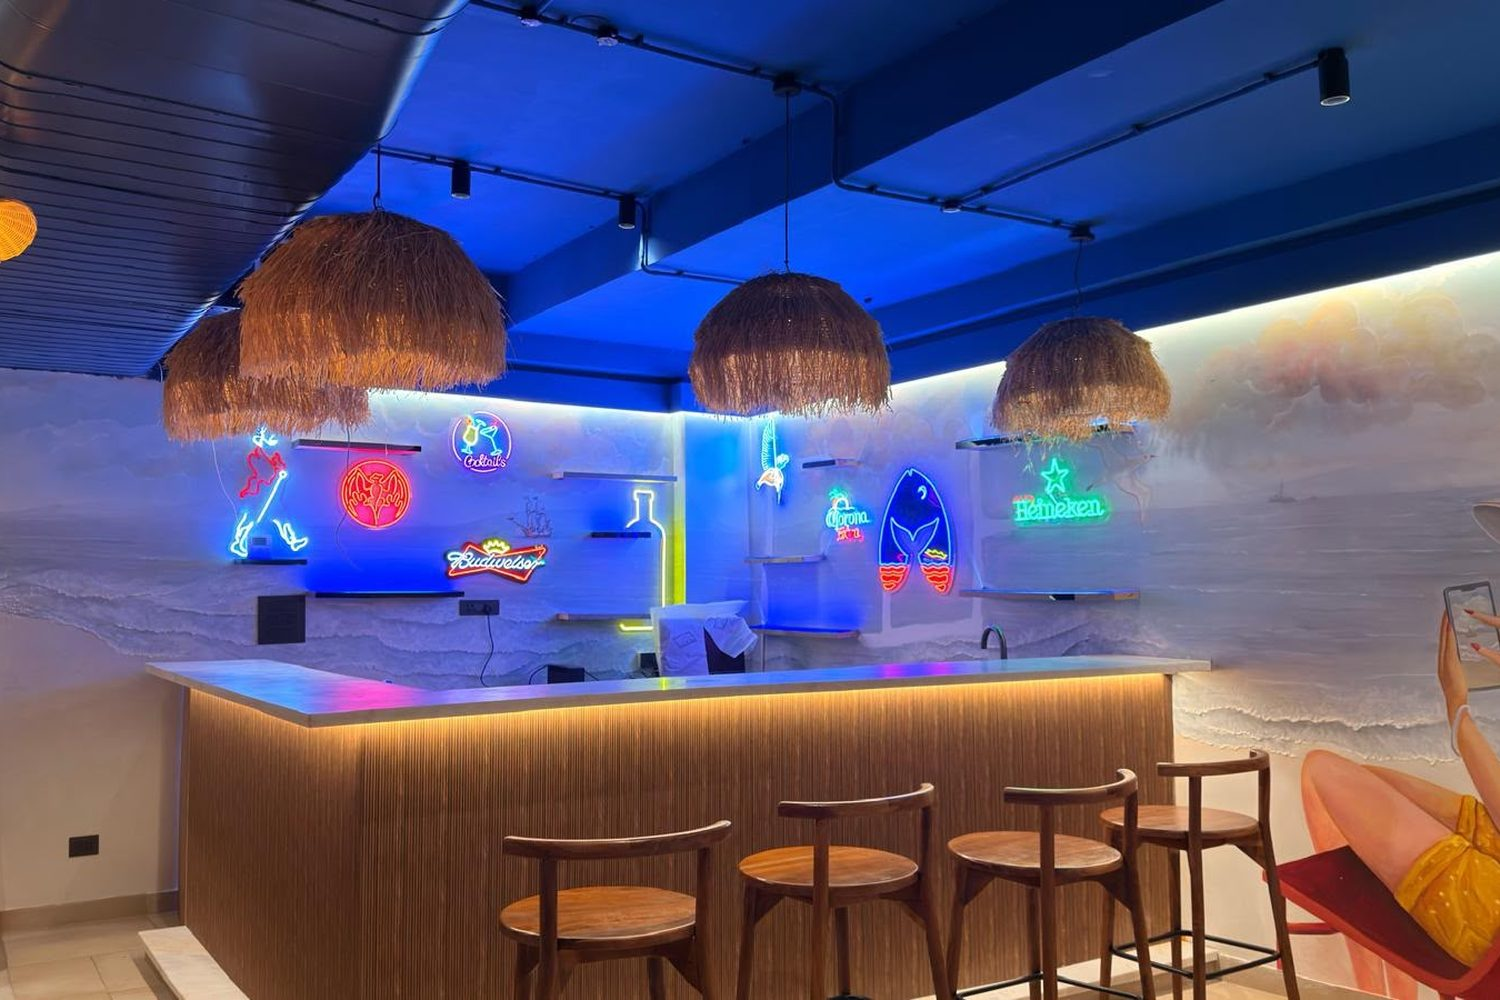
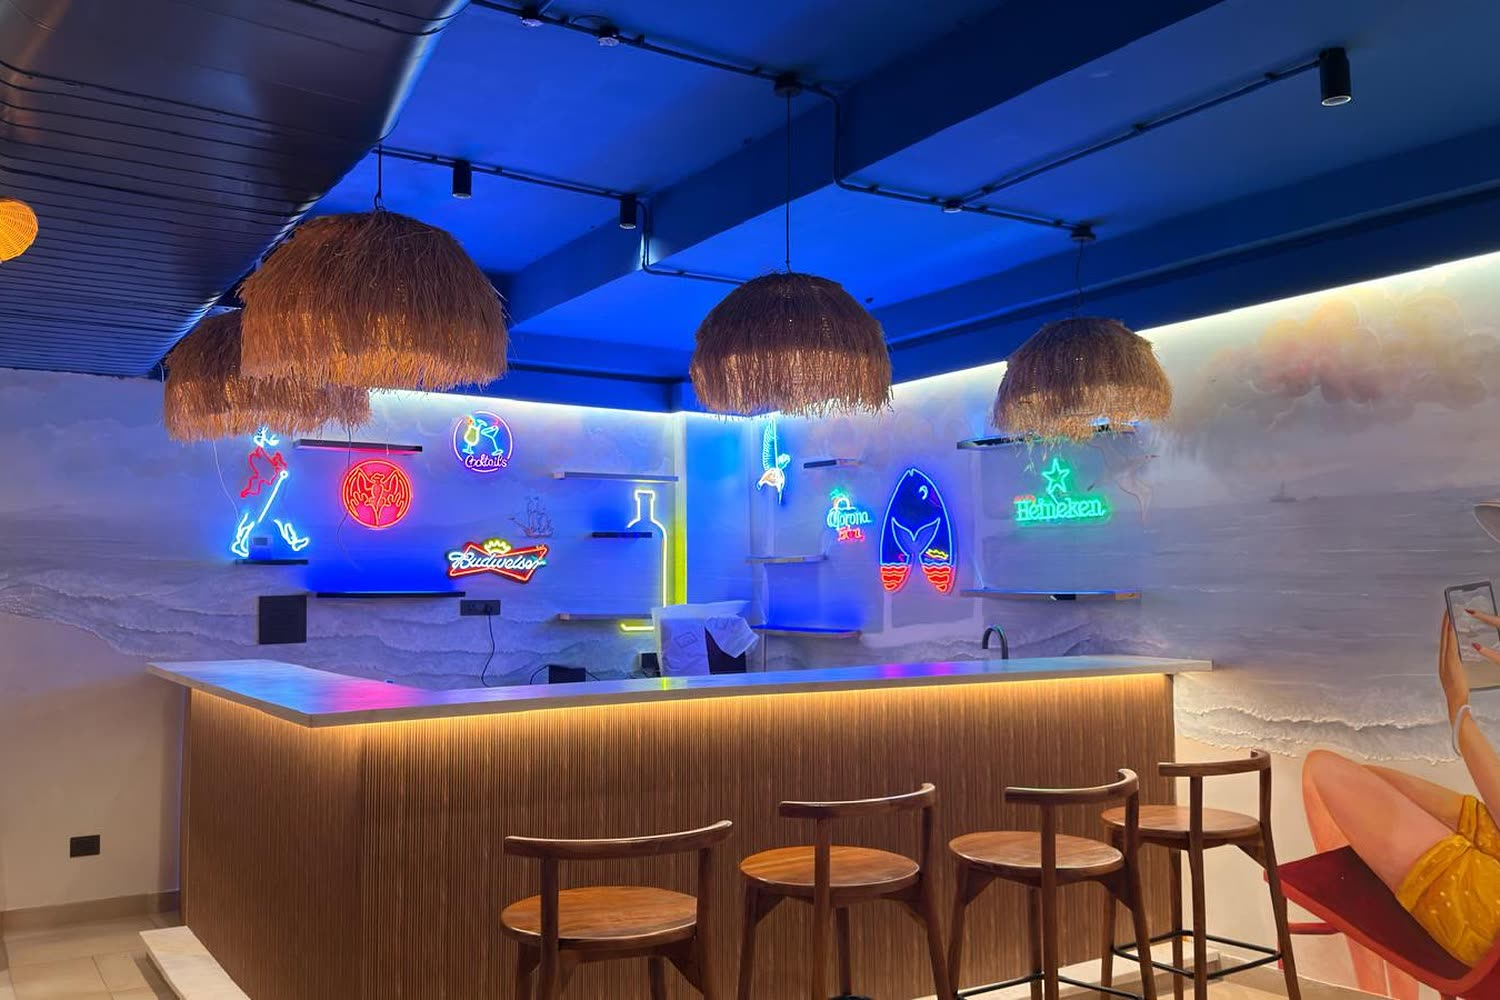
Real hotel photos for rooms, lobby, lounge, gym, corridor and Fishy Tales (staging)
Ten bundled images replaced under the same names and two added; metadata stripped. Deployed to staging only (REL-0018); CHANGELOG CHG-0031.

diff --git a/CHANGELOG.md b/CHANGELOG.md
@@ -69,6 +69,48 @@ configuration, dependency and deployment changes. **Newest entries first.**
 
 ## 3. Change history
 
+### CHG-0031 — Real hotel photos for rooms, lobby, lounge, gym, corridor and Fishy Tales (staging)
+- **Date:** 2026-11-23 · **Module:** Public site images, gallery · **Change type:** Content / Enhancement
+- **Environment:** Staging only · **Status:** Deployed (staging); **not on live** · **Related commit:** see `git log` · **Release:** REL-0018
+
+**Reason:** The hotel supplied its own photos (`Tycoon Images/`, 13 files) to replace the stock images, first on
+devtycoonshotel.proteam.co.in only.
+**What changed:** the bundled images were replaced under the same file names, so every page and the room and gallery
+records pick them up with no code change. HEIC photos were converted with ffmpeg; each was centre-cropped to the
+original file's aspect ratio and size, sharpened lightly, saved as JPEG, and all metadata (camera, GPS location)
+removed.
+
+| Site image | Used on | New photo |
+|---|---|---|
+| `room-twin.jpg` | Twin Room (rooms, booking, gallery) | IMG_7226 (twin room) |
+| `room-premium.jpg` | Premium Room | premium room |
+| `lobby-lounge.jpg` | Meetings page, gallery "Reception and lobby" | reception |
+| `lounge.jpg` | Home lounge section, Meetings hero, gallery | business lounge |
+| `gal-corridor.jpg` | Gallery "Guest floor corridor" | Floor Passage |
+| `gal-gym.jpg` | Gallery "Fitness centre" | IMG_6560 (gym) |
+| `gal-bar.jpg` | Gallery "Bar counter at Fishy Tales" | WhatsApp 10.37.23 (1) |
+| `gal-restaurant.jpg` | Dining page, Fishy Tales cards, gallery | WhatsApp 10.37.23 |
+| `gal-restaurant-seating.jpg` | Gallery "Fishy Tales restaurant seating" | WhatsApp 10.37.24 |
+| `gal-restaurant-mural.jpg` | Gallery "Fishy Tales seaside mural" | WhatsApp 10.37.24 (1) |
+| `gal-bar-neon.jpg` (new) | Gallery, new entry "Neon-lit bar at Fishy Tales" | WhatsApp 10.37.17 |
+| `gal-restaurant-whales.jpg` (new) | Gallery, new entry "Fishy Tales whale mural dining room" | WhatsApp 10.37.25 |
+
+**Not used:** WhatsApp 10.37.19 (fish fry) carries a third-party watermark ("Vanitas Corner"), so it may not be the
+hotel's own photo; the dish image is unchanged until the hotel confirms the right to use it or sends its own.
+No photos were supplied for the Deluxe Room, Tycoon Suite, spa, pool, breakfast, food or the city hero: those stay as before.
+**Database (staging only):** two `gallery_images` rows added (dining, 900x1200) after a backup of the table
+(`~/backups/gallery_images-20261123T054303Z.sql` on the staging account); 21 rows → 23.
+**Files modified:** `frontend/public/assets/img/` (10 replaced, 2 added), `.gitignore` (`Tycoon Images/` not committed:
+21 MB of originals with location metadata), `CHANGELOG.md`.
+**Security / API / configuration impact:** none. Location metadata stripped from every published image.
+**Testing performed:** each image on staging is byte-identical to the local file (MD5, 12/12); staging gallery
+returns 23 entries; live (`thetycoonshotel.com`) still serves the previous images (12/12 unchanged). Crops checked visually.
+**Live:** goes with the next live deploy. Live's gallery has 16 entries (the 5 added on staging after the go-live
+copy plus these 2 are not there); add them on live when this is released there.
+**Rollback:** redeploy REL-0016's package to staging; delete the two gallery rows (or restore the backup).
+
+---
+
 ### CHG-0031 — The hotel's own photos on the staging site (rooms, lounge, reception, restaurant, bar, gym, corridor)
 - **Date:** 2026-11-23 · **Module:** Content / images · **Change type:** Content, Database (data only)
 - **Environment:** Staging · **Status:** Deployed (staging only; live not changed) · **Related commit:** see `git log`
@@ -1017,6 +1059,7 @@ credentials files and one-off cron jobs are removed after each deploy.
 
 | ID | Date | Release archive | Contents | Migration | Verification |
 |---|---|---|---|---|---|
+| REL-0018 | 2026-11-23 | `tycoons-20261123T054208Z` — **staging only** | CHG-0031 | — (2 gallery rows added, table backed up) | 12/12 images byte-identical on staging; gallery 23 entries; live unchanged |
 | REL-0017 | 2026-11-11 | `tycoons-20261111T094050Z` (same build as REL-0016), **production** thetycoonshotel.com | CHG-0030 (first install) | Fresh schema, all 7 revisions to `4e8b1d6f2c30` | Ready 200; redirects 301; cert valid; headers + CSP; docs 404; booking mode request; 8 pages no placeholders; SPF/DKIM valid |
 | REL-0016 | 2026-11-11 | `tycoons-20261111T094050Z` | CHG-0029 | — | All 8 public pages scanned live after deploy: no placeholders on any page |
 | REL-0015 | 2026-11-11 | `tycoons-20261111T090158Z` | CHG-0028 | — | Live Contact page: no placeholders, Getting-here list hidden, map shown; bundle matched |
@@ -1046,6 +1089,8 @@ credentials files and one-off cron jobs are removed after each deploy.
 
 | Item | Detail | Owner |
 |---|---|---|
+| Photos on live (CHG-0031) | New photos are on staging only. On the next live deploy also add the 7 gallery entries live lacks (corridor, gym, bar, seating, seaside mural, neon bar, whale mural) | Development (on request) |
+| Fish-fry photo (CHG-0031) | Supplied image has a "Vanitas Corner" watermark; confirm usage rights or send the hotel's own dish photo | Hotel |
 | Live: change the admin password | The live admin (admintycoon@proteam.co.in) has the same password as staging; change it on thetycoonshotel.com/admin | Hotel |
 | Live: test booking request | Send one booking request on the live site, check that both emails arrive (guest and reservations@), then decline it in the admin | Hotel |
 | Live backups | Set up a nightly backup of `thetycoonshotel_tycoons` (cPanel backups or a cron mysqldump) | IT / Hosting |
